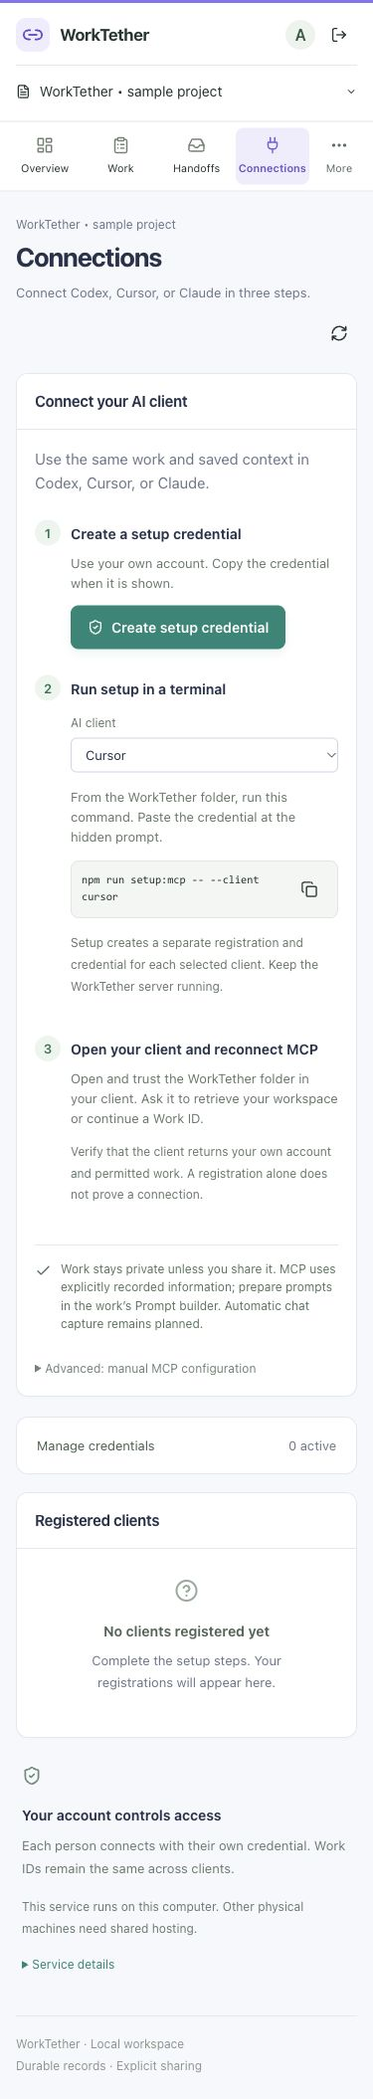
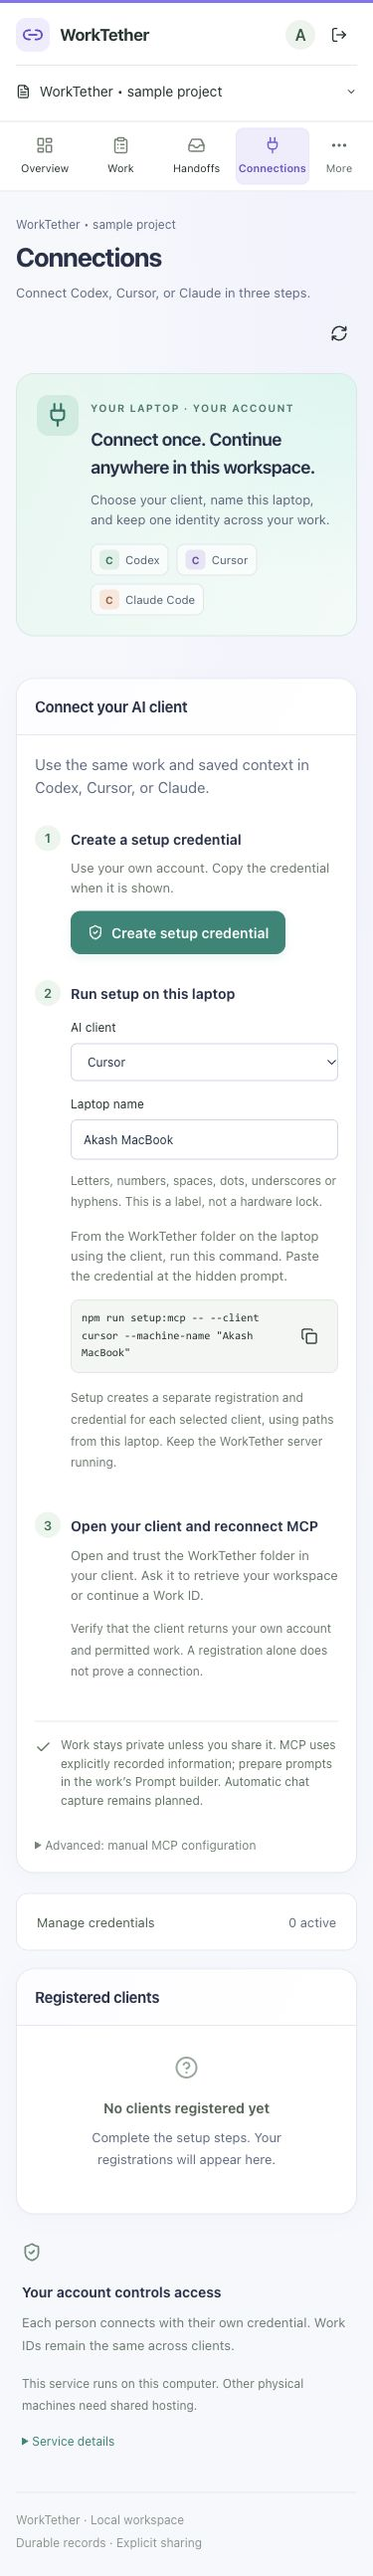
added documented & assets

diff --git a/docs/VALIDATION.md b/docs/VALIDATION.md
@@ -1,6 +1,6 @@
 # Validation and requirement traceability
 
-Version 0.4 · 5 October 2026. Evidence below is the current application verification from this local build. This release adds simpler responsive navigation, readable context, and local prompt preparation. Protocol/setup tests do not certify actual third-party host UIs, hooks, or semantic prompt quality.
+Version 0.5 · 5 October 2026. Evidence below is the current application verification from this local build. This release adds dedicated conversation tracking, laptop setup labels, reusable UI components and screenshot guides. Protocol/setup tests do not certify actual third-party host UIs, hooks, or semantic prompt quality.
 
 ## Evidence summary
 
@@ -8,12 +8,12 @@ Version 0.4 · 5 October 2026. Evidence below is the current application verific
 | --- | --- |
 | [Store tests](../tests/store.test.ts) | 19 tests: identity, permissions, revisions, correction/review, handoffs, budgets, pagination/graphs, explicit conversations, snapshots, exclusion, personal prompt preservation/provenance/freshness and reviewed original-only source save. |
 | [HTTP/MCP test](../tests/server.test.ts) | 1 integration test uses actual HTTP and SDK client; identity/origin/revocation/handoff behavior, legacy negotiation and pinned newer protocol mode. |
-| [Integration tests](../tests/integrations.test.ts) | 4 tests: safe config generation, separate personal credentials and interrupted setup recovery, real stdio process across protocol modes, personal prompt preparation/retrieval/privacy, revocation, and secret-free failure. |
+| [Integration tests](../tests/integrations.test.ts) | 4 tests: safe config generation, separate personal credentials/laptop names and interrupted setup recovery, rejected unsafe labels before provisioning, real stdio process across protocol modes, conversation labels/attribution, personal prompt preparation/retrieval/privacy, revocation, and secret-free failure. |
 | Complete suite | 24 tests passed; zero failed. Original whitespace/Unicode, compact context, warnings, rollback on mandatory-budget failure, stale/access checks, save replay, and restart persistence are covered. |
 | Production build | TypeScript and Vite build passed during application verification. |
 | [Live MCP smoke](../scripts/check-mcp.ts) | HTTP and stdio each discovered 20 tools and an authenticated workspace; temporary credentials revoked. |
-| Browser review | 1440px desktop and 375px mobile: overview, prompt preparation, review gate, invalidation after input edits, mobile More menu, client selector/command and setup form. Checked page widths matched viewport widths. No captured warning/error console entries. Not a full accessibility audit. |
-| Visual evidence | [Overview](assets/dashboard-refined.jpg), [Prompt builder](assets/prompt-builder-local.jpg), [mobile Connections](assets/connections-refined-mobile.jpg). Images contain sample project data. |
+| Browser review | 1440px desktop and 375px mobile: new conversation form/record, preserved labels after reload, own selection visible in Sources, exact resume instruction copying, client/laptop setup command, invalid label disabling copy, and layout widths matching viewports. No captured warning/error console entries. Earlier prompt review/invalidation and navigation checks remain recorded. Not a full accessibility audit. |
+| Visual evidence | [Overview](assets/dashboard-refined.jpg), [Conversations](assets/conversation-tracking.jpg), [mobile Conversations](assets/conversations-mobile.jpg), [laptop setup](assets/laptop-setup.jpg), [mobile Connections](assets/connections-refined-mobile.jpg). [Prompt builder](assets/prompt-builder-local.jpg) is the earlier 0.4 view. Images contain sample project data, without credentials. |
 | [Local benchmark](benchmark-results.json) | 4 October 2026; synthetic local authenticated HTTP, 10 concurrent clients, 30 measured samples per operation. |
 
 Sample accounts and client/device labels are data fixtures, not actual other connected physical machines. No real Codex/Cursor/Claude host or physical Windows certification is recorded. Graph/byte/evidence-state results are not model accuracy or bias evaluations.
@@ -24,7 +24,7 @@ Sample accounts and client/device labels are data fixtures, not actual other con
 | --- | --- | --- |
 | FR01/02/07/18; AC02/04; GR01–04/13 | Session/credential/device revocation tests; private metadata/content/file/context/graph filtering. | Hosted tenancy, member removal, export and broader security review. |
 | FR03/04/15/19; AC01/05/09; GR08 | Stable ownership transfer, immutable revisions, stale writes, restart, shared domain dispatch. | Physical multi-machine continuation and hosted adapter recovery. |
-| FR05/21; AC14; GR05 | Explicit conversation IDs, same-work/actor capture validation, dependency-linked selected summaries. | Native mapping uniqueness and event deduplication; automatic capture/summarization. |
+| FR05/21; AC14; GR05 | Explicit conversation IDs and validated client/laptop metadata, restart persistence, same-work/actor capture validation, dependency-linked selected summaries, browser new/resume workflow. | Native mapping uniqueness and event deduplication; automatic capture/summarization. |
 | FR06; AC07; GR07 | Complete UTF-8 package tests, mandatory-budget failure, immutable context/stale/access tests. | Host request/token/truncation behavior; semantic relevance evaluation. |
 | FR08/09; AC03/08; GR11/12 | Selected immutable payloads, retry conflict/deduplication, staleness/revocation, protected selected files; UI preview. | Actual host preview/delivery workflows and WAN reliability. |
 | FR10/22; AC06/15; GR09/10 | Transitive/private correction review, concurrent corrections, preserved review evidence, exclusion/restoration. | Unrecorded dependency discovery is not promised; expanded freshness scope needs design. |

diff --git a/docs/PRD.md b/docs/PRD.md
@@ -4,7 +4,7 @@ WorkTether preserves current project intent, work identity, decisions, evidence,
 
 | Field | Value |
 | --- | --- |
-| Version / date | 0.4 / 5 October 2026 |
+| Version / date | 0.5 / 5 October 2026 |
 | Status | Local prompt preparation implemented; native adapters, evaluation, hosting, and client certification remain planned |
 | Deployment | Local first, then one shared hosted service |
 | Client targets | Codex, Cursor, Claude Code; Claude Desktop/web through separately verified routes |
@@ -145,7 +145,7 @@ FR01–FR20 retain their original identifiers. The table records actual status i
 | FR18 | Revoke sessions/credentials/devices/grants/handoffs; deny future controlled retrieval including contexts/files. | Implemented L0; account-wide session administration L3. |
 | FR19 | Persist IDs/state/revisions/permissions/handoffs across restart. | Implemented L0; backup/recovery operations L3. |
 | FR20 | Responsive browser overview/work/context/prompt-builder/sources/history/handoffs/dependencies/members/connections; clear states, reviewable actions, reduced-motion behavior. | Partial: local UI implemented/reviewed; formal accessibility audit pending. |
-| FR21 | Durable conversation capture attribution plus native session/turn mapping unique by authenticated integration scope, with idempotent lifecycle. | Partial: explicit conversations implemented; adapters/mapping L2. |
+| FR21 | Durable conversation capture attribution plus native session/turn mapping unique by authenticated integration scope, with idempotent lifecycle. | Partial: explicit conversations, client/laptop labels and browser tracking implemented; adapters/mapping L2. |
 | FR22 | Exclude/restore current sources with reason/revision; preserved history and dependency review flags. | Implemented L0. |
 | FR23 | Preserve original prompt; prepared variant has inspectable additions, method version, context/source provenance and review before use. Extend to semantic diff and accept/reject registry when needed. | Partial L2: personal local drafts, review-gated copy, and reviewed proposed-source save implemented; semantic diff/evaluation and rejection registry planned. |
 | FR24 | Client-specific setup, capability matrix, version/OS/auth evidence; sanitized configs; Claude surfaces separated. | Setup CLI and stdio bridge implemented; real client certification L1. |
@@ -184,7 +184,7 @@ The opening dashboard prioritizes permitted work, requirement changes/reviews, n
 | Overview | Selected project, accessible work, pending handoffs, review flags, evidence-state chart. |
 | Work | Objective, owner/state/revision, current requirements, sources, next action, explicit continuation. |
 | Context | Package ID/revisions/budget, warnings, source reasons, omissions, saved snapshot/stale state. |
-| Conversations | WorkTether ID, owner, title, optional client reference; future native mapping/capture status. |
+| Conversations | WorkTether ID, owner, title, supplied client/laptop labels, optional client reference, own attribution selection and start/resume instructions; future native mapping/capture status. |
 | Handoffs | Sender/recipient, exact selected snapshot, delivery/review/stale state, acknowledge action. |
 | Dependencies | Bounded recorded neighborhood, labeled relations, permitted omission information, record list. |
 | Connections | Device/client labels, last observed request, credential creation/revocation, setup guide. |
@@ -193,7 +193,7 @@ The opening dashboard prioritizes permitted work, requirement changes/reviews, n
 
 Graphs answer questions such as which recorded conclusions need review after a correction. They are not complete organization maps. Charts must label what is counted; verified evidence is a recorded status, not a factual accuracy score. Prompt/token charts require measured usage or clearly labeled estimates.
 
-[Dashboard concept](assets/dashboard-concept.png) and [connection concept](assets/connection-concept.png) are illustrative designs. [Current dashboard](assets/dashboard-local.jpg) and [mobile connection setup](assets/connections-mobile.jpg) show an earlier local UI with sample records; they do not certify the version 0.4 layout.
+[Dashboard concept](assets/dashboard-concept.png) and [connection concept](assets/connection-concept.png) are illustrative designs. [Earlier dashboard](assets/dashboard-local.jpg) and [mobile connection setup](assets/connections-mobile.jpg) show an earlier local UI with sample records; they do not certify the version 0.5 layout. Current screenshots are in the root README and tracking/setup guides.
 
 ## 11 Privacy, guardrails, and retention
 

diff --git a/docs/PROMPT_CONTEXT.md b/docs/PROMPT_CONTEXT.md
@@ -1,6 +1,6 @@
 # Prompt, context, and conversation lifecycle
 
-Version 0.4 · 5 October 2026. Current behavior includes explicit selected capture, bounded context assembly, and personal local prompt drafts with review/copy and explicit proposed-source save. Native adapters, semantic rewriting, consent registries, and automatic preparation are **planned L2**. See [FSD](FSD.md) for available tools and [integrations](INTEGRATIONS.md) for host-specific boundaries.
+Version 0.5 · 5 October 2026. Current behavior includes explicit selected capture, bounded context assembly, and personal local prompt drafts with review/copy and explicit proposed-source save. Native adapters, semantic rewriting, consent registries, and automatic preparation are **planned L2**. See [FSD](FSD.md) for available tools and [integrations](INTEGRATIONS.md) for host-specific boundaries.
 
 ## 1 Answer to the central question
 
@@ -29,7 +29,7 @@ New chat, same objective: keep Work ID and create a new Conversation ID. Same na
 ## 3 Current explicit workflow
 
 1. Select a permitted project/work using `workspace_overview` and `list_work`.
-2. Call `create_conversation` with work/title and optional `clientReference`. Keep the returned ID in the visible continuation header.
+2. For a new chat, call `create_conversation` with work/title and optional supplied `client`, `machineName` and `clientReference`. For the same-chat resume, verify and reuse its existing record. Keep the full returned ID in the visible continuation header.
 3. Call `record_source` for selected authorized excerpts. Link `conversationId`; record summaries/decisions/evidence separately and use `dependsOn` where relationships are known.
 4. Call `get_work_context`. Inspect revisions, mandatory requirements, review warnings, included sources/reasons, and omissions.
 5. Supply the package through the client tool workflow, or explicitly call `prepare_prompt` with the original request and optional own Conversation ID. Inspect the added context and warnings; manual review/copy remains deliberate. The server does not control the host's final full request.

diff --git a/docs/ARCHITECTURE.md b/docs/ARCHITECTURE.md
@@ -1,6 +1,6 @@
 # Architecture and diagrams
 
-Version 0.4 · 5 October 2026. Diagrams describe the current local service or explicitly labeled future components. Requirements are in [PRD](PRD.md); contracts are in [FSD](FSD.md). Mermaid source stays inside these documents for review and versioning.
+Version 0.5 · 5 October 2026. Diagrams describe the current local service or explicitly labeled future components. Requirements are in [PRD](PRD.md); contracts are in [FSD](FSD.md). Mermaid source stays inside these documents for review and versioning.
 
 ## D1 — Current local architecture
 
@@ -170,6 +170,8 @@ The [refined dashboard](assets/dashboard-refined.jpg) and [local prompt builder]
 ![Local original-preserving prompt builder with reviewable added context](assets/prompt-builder-local.jpg)
 
 The evidence chart counts readable current project records in explicit evidence states. It measures recorded evidence state, not model accuracy. The graph is a bounded recorded neighborhood: current limits are 80 nodes and 160 edges. A readable relationship list complements the visualization. The current Prompt builder exposes preserved original input, exact added context, warnings/provenance, and complete generated text. It has no quality score. Semantic changed-span diffs and native capture/mapping status remain future work. The responsive redesign uses clearer navigation, vibrant accents, short interaction transitions and reduced-motion support; formal accessibility certification is pending.
+
+The current [conversation screen](assets/conversation-tracking.jpg) and [laptop setup](assets/laptop-setup.jpg) add explicit attribution and named local registrations. [CONVERSATION_TRACKING.md](CONVERSATION_TRACKING.md) diagrams how several chats continue one Work ID; [DESIGN_SYSTEM.md](DESIGN_SYSTEM.md) describes reusable presentation components. These additions do not install automatic native adapters or establish shared hosting.
 
 ## Architecture decisions
 

diff --git a/docs/FSD.md b/docs/FSD.md
@@ -12,7 +12,7 @@ Version 0.5 · 5 October 2026. This document specifies the current prototype and
 | [server/stdio.ts](../server/stdio.ts) | Official SDK stdio bridge; forwards to the authenticated HTTP service without owning a database. |
 | [integrations/config.ts](../integrations/config.ts), [setup CLI](../scripts/setup-mcp.ts) | Local config generation and separate personal credential provisioning; no global config overwrite. |
 | [server/prompts.ts](../server/prompts.ts) | Versioned deterministic context projection/composition without external AI calls. |
-| [src/App.tsx](../src/App.tsx), [workflow](../src/workflow.tsx), [PromptBuilder](../src/PromptBuilder.tsx) | Permitted browser views, responsive navigation, readable context and deliberate prompt review/copy/save. |
+| [src/App.tsx](../src/App.tsx), [workflow](../src/workflow.tsx), [PromptBuilder](../src/PromptBuilder.tsx), [Conversations](../src/Conversations.tsx), [shared UI](../src/ui.tsx) | Permitted browser views, responsive navigation, readable context, explicit conversation attribution and deliberate prompt review/copy/save. |
 
 The domain derives the actor from authenticated request state. Every exposed operation checks project/work authority. Changing surface from browser to MCP does not change ownership or grant rules. SQLite `BEGIN IMMEDIATE` transactions protect multi-record mutations. There is one local workspace; multi-organization tenancy is unimplemented.
 

diff --git a/docs/IMPLEMENTATION.md b/docs/IMPLEMENTATION.md
@@ -1,6 +1,6 @@
 # Local release implementation
 
-Status: local prototype evidence, version 0.4 · 5 October 2026. Start with the [README agenda](../README.md), [PRD](PRD.md), [FSD](FSD.md), and [validation matrix](VALIDATION.md). Current local prompt preparation is documented in [PROMPT_BUILDER.md](PROMPT_BUILDER.md); native adapters and semantic assistance remain planned in [PROMPT_CONTEXT.md](PROMPT_CONTEXT.md).
+Status: local prototype evidence, version 0.5 · 5 October 2026. Start with the [README agenda](../README.md), [PRD](PRD.md), [FSD](FSD.md), and [validation matrix](VALIDATION.md). Current local prompt preparation is documented in [PROMPT_BUILDER.md](PROMPT_BUILDER.md); native adapters and semantic assistance remain planned in [PROMPT_CONTEXT.md](PROMPT_CONTEXT.md).
 
 The PRD preceded implementation. The release is a React/Vite dashboard, an Express loopback API, an official TypeScript SDK MCP endpoint, and a durable native SQLite domain store. A local stdio bridge now forwards the same 20 tools to authenticated HTTP, and the setup CLI generates Codex/Cursor/Claude Code configs plus a Claude Desktop entry. It uses local accounts and selected user-entered records. GitHub, public deployment, embedded MCP Apps and remote execution are later work.
 
